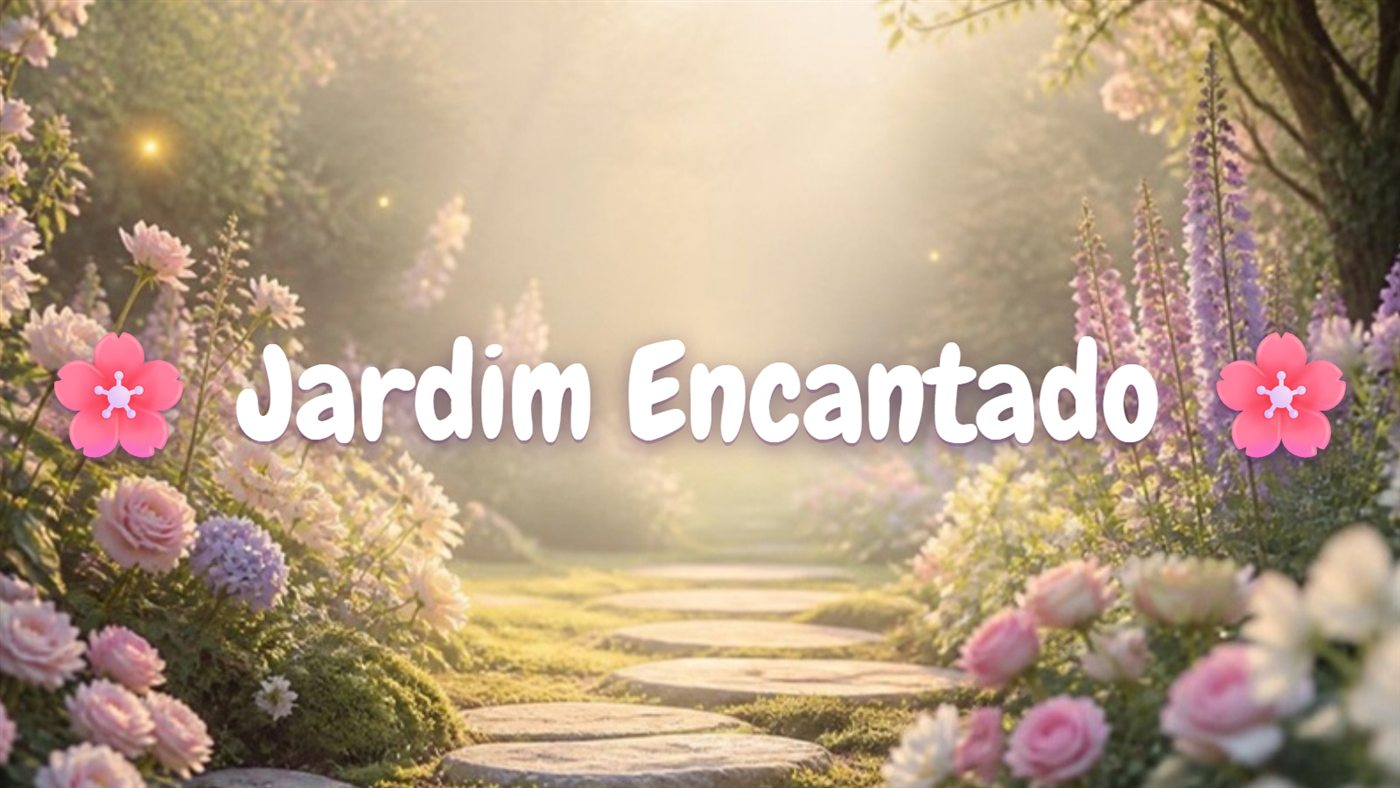
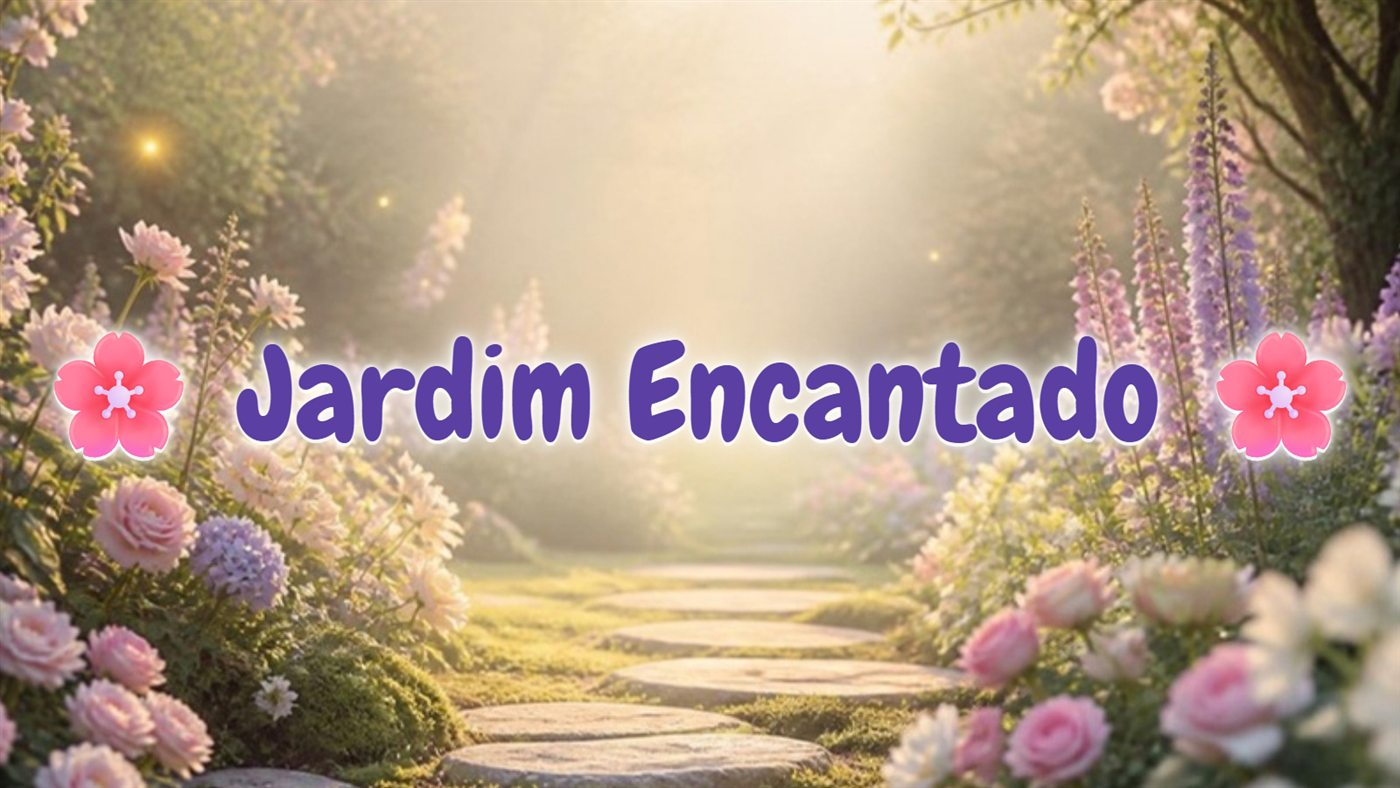
Tema do mes: titulo roxo, paragrafos do painel preservados no site, papel cobre a imagem sem bordas

Changed region(s): [[0.0307, 0.3959, 0.9829, 0.6091]]

diff --git a/js/app.js b/js/app.js
@@ -198,12 +198,13 @@ $("shipping-note").textContent = S.itemsNote + " " + S.freeShippingNote;
   const paper = document.querySelector(".tear__paper");
   if (paper) {
     const ROWS = 10;
+    const OV = 0.7; // sobreposição entre as metades: sem frestas por onde a imagem apareça
     const rnd = (a, b) => a + Math.random() * (b - a);
     const xs = Array.from({ length: ROWS + 1 }, (_, k) => 50 + (k % 2 ? 1 : -1) * rnd(3, 8));
     let html = "";
     for (let i = 0; i < ROWS; i++) {
-      const y0 = Math.max(0, (i * 100) / ROWS - 0.3);
-      const y1 = Math.min(100, ((i + 1) * 100) / ROWS + 0.3);
+      const y0 = Math.max(0, (i * 100) / ROWS - 0.6);
+      const y1 = Math.min(100, ((i + 1) * 100) / ROWS + 0.6);
       const ym = (y0 + y1) / 2;
       const xm = 50 + rnd(-6, 6);
       const delay = (i * 0.085).toFixed(3);
@@ -211,9 +212,9 @@ $("shipping-note").textContent = S.itemsNote + " " + S.freeShippingNote;
       const content = `<span>Revelação</span><small>passe o mouse ou toque</small>`;
       html +=
         `<div class="tear__piece tear__piece--l" style="--delay:${delay}s;--rot:${rot}deg;transform-origin:0 ${ym}%;` +
-        `clip-path:polygon(0 ${y0}%,${xs[i]}% ${y0}%,${xm}% ${ym}%,${xs[i + 1]}% ${y1}%,0 ${y1}%)">${content}</div>` +
+        `clip-path:polygon(0 ${y0}%,${(xs[i] + OV).toFixed(2)}% ${y0}%,${(xm + OV).toFixed(2)}% ${ym}%,${(xs[i + 1] + OV).toFixed(2)}% ${y1}%,0 ${y1}%)">${content}</div>` +
         `<div class="tear__piece tear__piece--r" style="--delay:${delay}s;--rot:${rot}deg;transform-origin:100% ${ym}%;` +
-        `clip-path:polygon(${xs[i]}% ${y0}%,100% ${y0}%,100% ${y1}%,${xs[i + 1]}% ${y1}%,${xm}% ${ym}%)">${content}</div>`;
+        `clip-path:polygon(${(xs[i] - OV).toFixed(2)}% ${y0}%,100% ${y0}%,100% ${y1}%,${(xs[i + 1] - OV).toFixed(2)}% ${y1}%,${(xm - OV).toFixed(2)}% ${ym}%)">${content}</div>`;
     }
     paper.innerHTML = html;
   }

diff --git a/css/styles.css b/css/styles.css
@@ -291,7 +291,8 @@ a { color: inherit; }
 .tear__spark--1 { top: 16%; left: 16%; } .tear__spark--2 { top: 24%; right: 14%; animation-delay: .7s; } .tear__spark--3 { bottom: 16%; right: 24%; animation-delay: 1.4s; }
 
 /* Papel que rasga de cima para baixo: faixas com borda irregular saem uma depois da outra (geradas em js/app.js) */
-.tear__paper { position: absolute; inset: 0; z-index: 2; filter: drop-shadow(0 2px 3px rgba(60, 40, 90, .28)); pointer-events: none; }
+.tear__paper { position: absolute; inset: -2px; z-index: 2; pointer-events: none; transition: filter .3s; }
+.tear:hover .tear__paper, .tear:focus-visible .tear__paper, .tear.is-open .tear__paper { filter: drop-shadow(0 2px 3px rgba(60, 40, 90, .28)); }
 .tear__piece { position: absolute; inset: 0; display: grid; place-content: center; justify-items: center; gap: 6px; text-align: center;
   background: repeating-linear-gradient(0deg, rgba(120, 100, 80, .035) 0 1px, transparent 1px 4px), linear-gradient(135deg, #fffefb, #f3ede4);
   transition: transform .7s cubic-bezier(.4, 0, .2, 1); }
@@ -527,3 +528,6 @@ body.admin { background: var(--beige); }
 .tear__art--img > :not(.tear__spark):not(.glit) { visibility: hidden; }
 
 .theme__card.tear--wide { aspect-ratio: 16 / 9; max-width: 600px; }
+
+/* Parágrafos e quebras de linha escritos no painel aparecem do mesmo jeito no site */
+#theme-text { white-space: pre-line; }

diff --git a/css/panel.css b/css/panel.css
@@ -166,3 +166,4 @@ body.account { background: var(--beige); }
 .theme-art { display: grid; gap: 10px; }
 .theme-art img { max-width: min(100%, 400px); height: auto; border-radius: 14px; box-shadow: var(--shadow-s); }
 .theme-art label.btn { cursor: pointer; }
+.theme-preview p { white-space: pre-line; }
